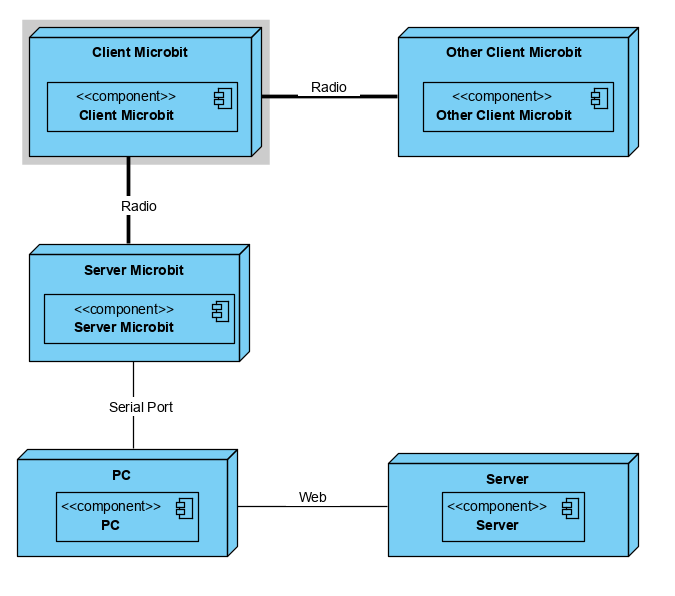
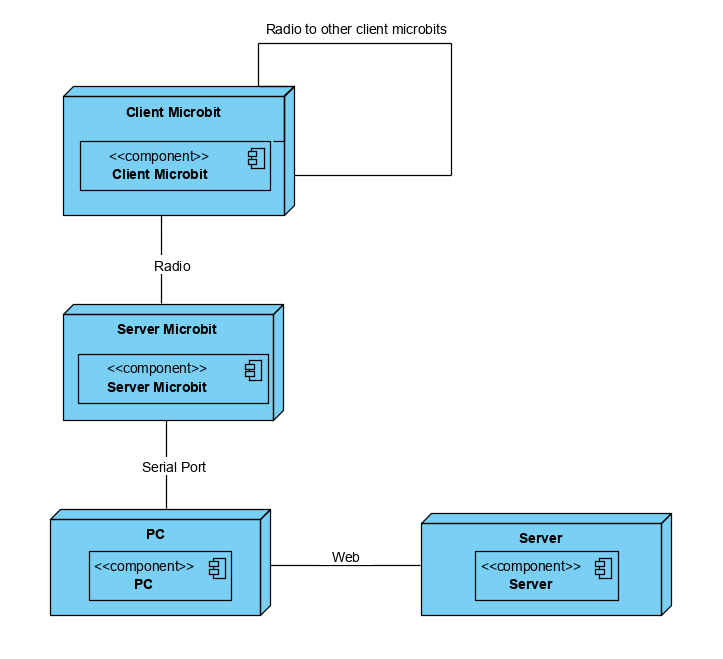
Added component diagram

Changed region(s): [[0.0, 0.0302, 0.9644, 0.9362]]

diff --git a/docs/Development-Report.md b/docs/Development-Report.md
@@ -109,7 +109,11 @@ The main focus of our architecture is based on being able to use the micro:bit w
 ![Physical Layer](https://github.com/softeng-feup/open-cx-a-programmer-odissey/blob/master/docs/Uml.jpg)
 
 ### Physical architecture
+Deployment Diagram
 ![Physical Layer Deployment](https://github.com/softeng-feup/open-cx-a-programmer-odissey/blob/master/docs/Physical%20Layer%20Deployment.PNG)
+
+Component Diagram
+![Physical Layer Component](https://github.com/softeng-feup/open-cx-a-programmer-odissey/blob/master/docs/Physical%20Layer%20Component.PNG)
 
 We chose to use C++ while programming the microbit because it's a more lighweight language for the microbit in comparison to python and javascript and the microbit doesn't have much computing power. We also chose to use microbits using serial port with a PC for the servers because it made comunicating with the clients 
 
